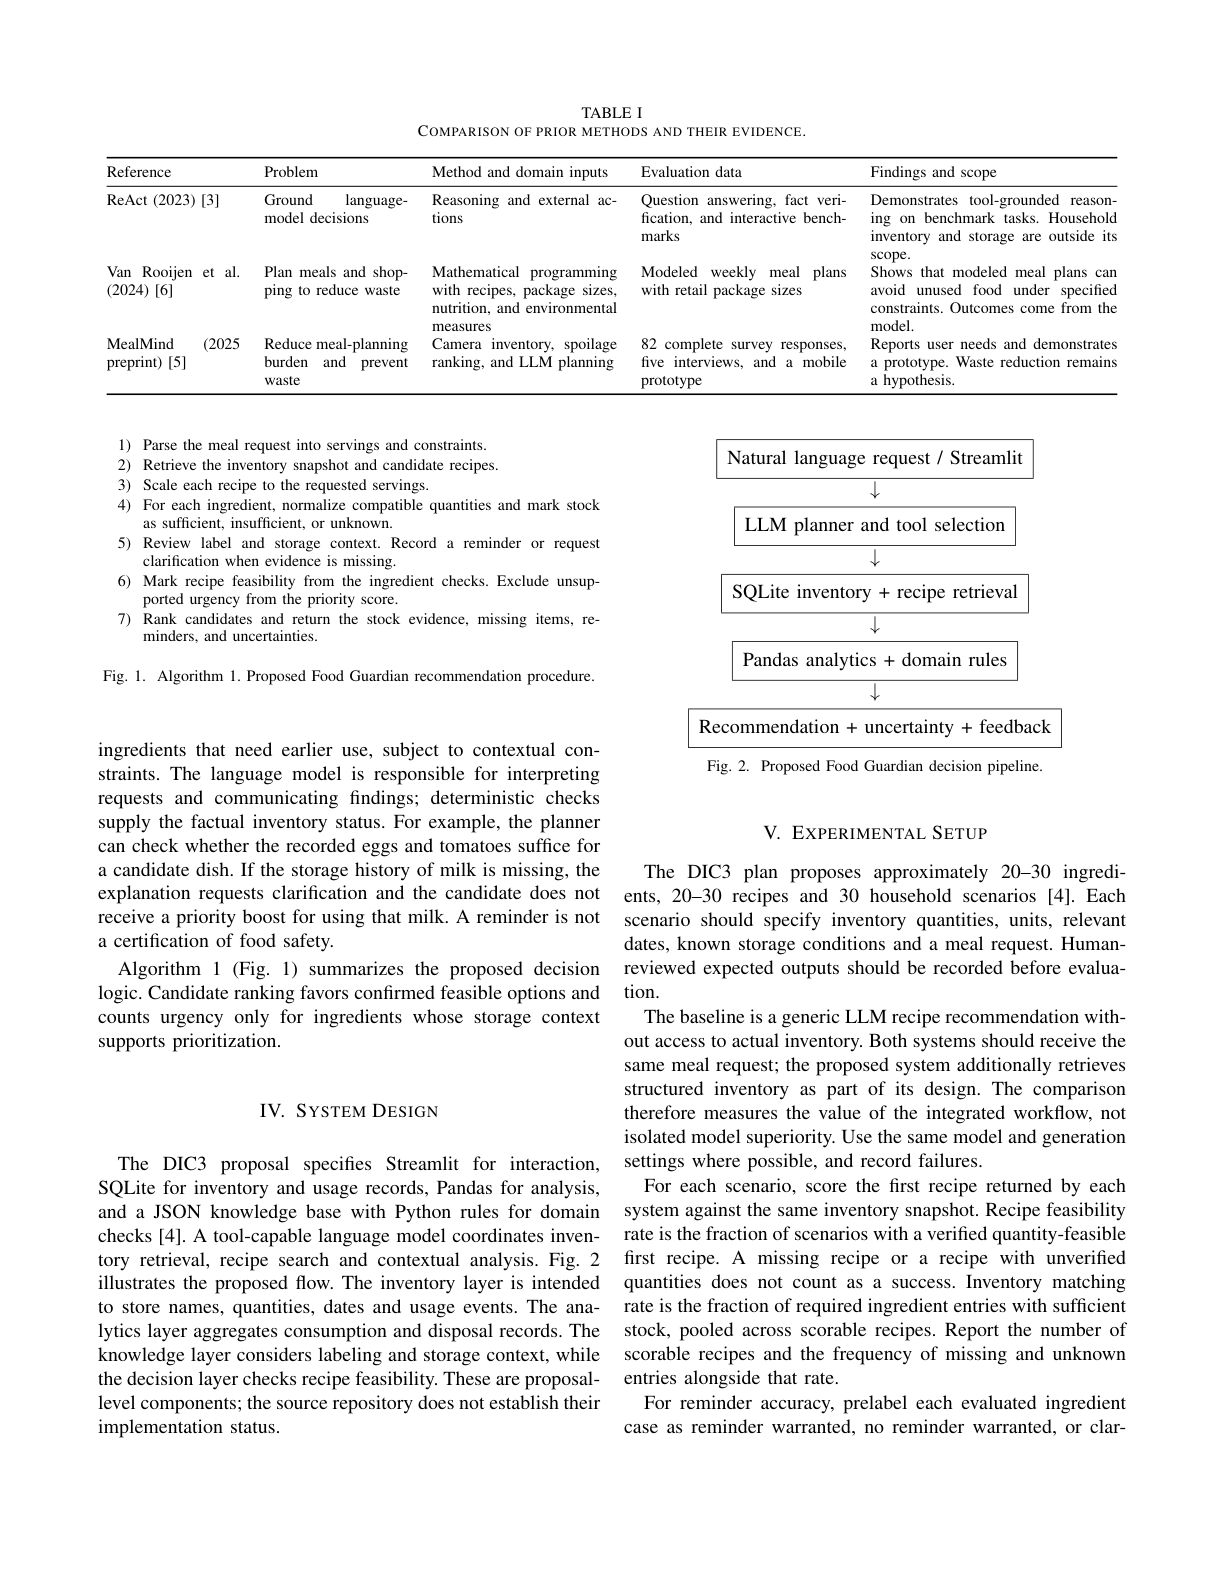
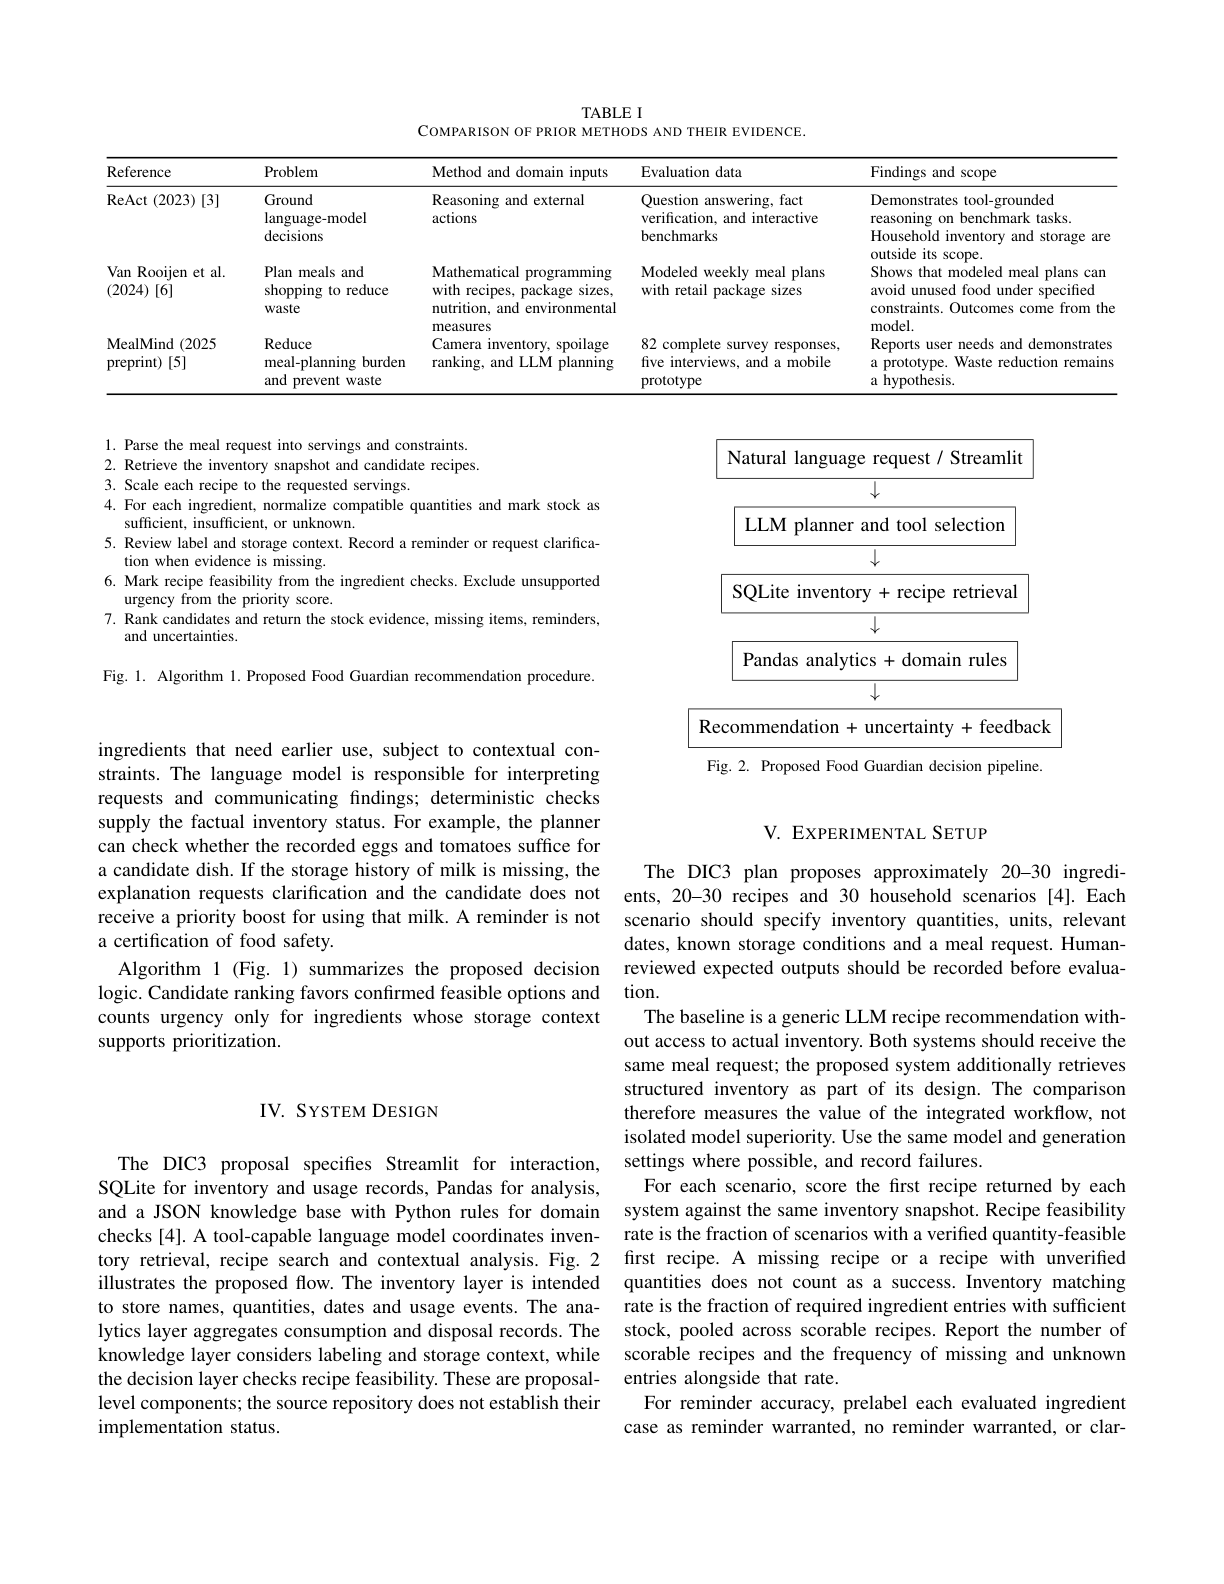
Publish Overleaf-verified indentation revision

diff --git a/validation-report.md b/validation-report.md
@@ -49,3 +49,9 @@ Run date: 2026-11-25 (Taipei).
 - Strict OpenSpec validation passed (8 passed, 0 failed). Local PDF SHA-256: 75c1d232a7586fc57e0f364e6c19037590a111694f0475c56f60d70006fdbc05
 - After approval, performed revision-checked MCP updates to sections/02_related_work.tex, sections/03_methodology.tex, and references.bib. Read-back matched local source for each file.
 - Overleaf pdfLaTeX build 1a21186abd8-95bda07653077111 compiled the [updated three-page PDF](paper/overleaf-main.pdf). The MCP summary reported zero errors, warnings, undefined citations, undefined references, and missing files. The errors-only log was empty. Verified that the PDF includes the comparison, algorithm, and pending results. Remote PDF SHA-256: 17adeff1e3a9f148a86c69bc18794f17bd836f5f97487d92ceb2418b92cd7e6a
+
+## Indentation revision
+
+- Left-aligned the narrow literature-table cells and specified fixed label and body margins for the numbered procedure. The README comparison uses screenshots from the before and after local Tectonic builds. The final local log decreased from seven underfull warnings to three.
+- With user approval, applied revision-checked MCP updates to preamble.tex, sections/02_related_work.tex, and sections/03_methodology.tex. Read-back matched local source for all three.
+- Overleaf pdfLaTeX build 1a2119e1c79-7f8683f1bed6c0b8 produced a three-page PDF. The MCP summary reported zero errors, warnings, undefined citations, or undefined references. The errors-only log was empty. Downloaded and verified the PDF and regenerated all three README page images. PDF SHA-256: 0d8c56fe856c1283e865fcfc90aaaf47bd3f6226e1bac670518db865ef46b085

diff --git a/README.md b/README.md
@@ -56,4 +56,4 @@ Project-scoped OpenSpec skills are installed for Antigravity. The manuscript was
 | --- | --- |
 | [![修正前的七步演算法](paper/preview/layout-algorithm-before.png)](paper/preview/layout-algorithm-before.png) | [![修正後的七步演算法](paper/preview/layout-algorithm-after.png)](paper/preview/layout-algorithm-after.png) |
 
-修正後仍為 3 頁。Tectonic 最終日誌中的行寬不足警告由 **7 則降為 3 則**，未出現超欄或未解析的引用。上方逐頁預覽對應既有的 Overleaf 編譯版，本節的修正後圖片和 PDF 對應本機排版修訂。
+修正後仍為 3 頁。Tectonic 最終日誌中的行寬不足警告由 **7 則降為 3 則**，未出現超欄或未解析的引用。上方逐頁預覽已更新為同一排版修訂的 Overleaf pdfLaTeX 編譯版。
